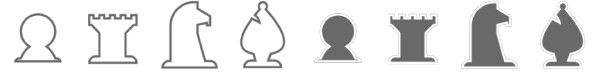
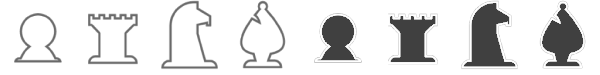
Draw pieces

diff --git a/048-chec/src/app.js b/048-chec/src/app.js
@@ -28,6 +28,7 @@ TTC.white = "#ffffff";
 TTC.black = "#404040";
 
 TTC.Board = {
+	squareSize: 75,
 	board: [
 		[null, null, null, null, null, null],
 		[null, null, null, null, null, null],
@@ -92,6 +93,24 @@ TTC.Board = {
 		}
 		return result;
 	},
+	toScreen(i, j) {
+		let xOffset = Room.mid.w - this.squareSize * 2;
+		let yOffset = Room.mid.h + this.squareSize * 3;
+		if (j === 0) yOffset += this.squareSize * 0.5;
+		if (j === 5) yOffset -= this.squareSize * 0.5;
+		return {
+			x: xOffset + this.squareSize * (i + 0.5),
+			y: yOffset - this.squareSize * (j + 0.5)
+		};
+	},
+	getImageIndex(piece) {
+		return {
+			"P": 0,
+			"R": 1,
+			"N": 2,
+			"B": 3
+		}[piece.type] + 4 * (piece.color === TTC.BLACK);
+	},
 	setup() {
 		this.clear();
 		this.put(new Piece(TTC.ROOK, TTC.WHITE), "a1");
@@ -102,6 +121,17 @@ TTC.Board = {
 		this.put(new Piece(TTC.BISHOP, TTC.BLACK), "b6");
 		this.put(new Piece(TTC.PAWN, TTC.BLACK), "c6");
 		this.put(new Piece(TTC.KNIGHT, TTC.BLACK), "d6");
+	},
+	render() {
+		for (let i = 0; i < 4; i++) {
+			for (let j = 0; j < 6; j++) {
+				const k = this.board[i][j];
+				if (k instanceof Piece) {
+					const l = this.toScreen(i, j);
+					Draw.strip("Pieces", this.getImageIndex(k), l.x, l.y);
+				}
+			}
+		}
 	}
 };
 
@@ -161,8 +191,7 @@ class Button extends BranthObject {
 		this.w = i.width;
 		this.h = i.height;
 		this.rect = TTC.UI.CreateRect(this.x - this.w * 0.5, this.y - this.h * 0.5, this.w, this.h);
-	}
-	render() {
+	}	render() {
 		if (TTC.UI.MouseHoverRect(this.rect)) {
 			this.scale = Math.range(this.scale, 1.1, 0.2);
 			if (Input.mouseDown(0)) {
@@ -216,11 +245,13 @@ Menu.renderUI = () => {
 };
 
 Game.start = () => {
+	TTC.Board.setup();
 	OBJ.create(Transition, new Transition(C.black));
 };
 
 Game.render = () => {
 	Draw.image("Board", Room.mid.w, Room.mid.h);
+	TTC.Board.render();
 };
 
 Game.renderUI = () => {
